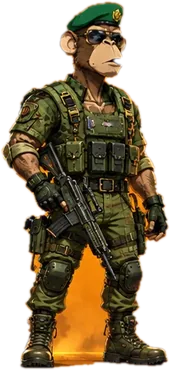
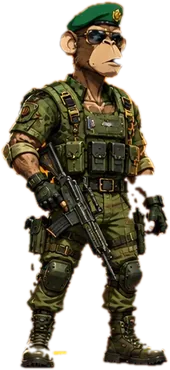
Animated art sprites: swinging legs, body lean and sway; art in the battle tab; cleaner cut-outs
Claude-Session: https://claude.ai/code/session_01AFcB8tnXHrTWHQ39MwJJPb

diff --git a/game.js b/game.js
@@ -1,7 +1,7 @@
 // Monkeys vs Opps: clear rooms of Opps, pick one of three upgrades, beat a boss every 10 rooms. Stand still to shoot, move to dodge.
 // Drag anywhere with your thumb to move. Your monkey starts at the bottom, opps drop in from the top, and it auto-fires.
 (() => {
-  const VERSION = 'v41';
+  const VERSION = 'v42';
   const cv = document.getElementById('c'); let ctx = cv.getContext('2d'); const mainCtx = ctx;
   let W, H, S, AW, AH, dpr, hudY = 44, UIY = 0, UIB = 14;
   let RW = 0, RH = 0, camX = 0, camY = 0;                   // the room can be bigger than the screen; the camera follows you
@@ -293,6 +293,21 @@
   const heroArtC = {};
   function heroArt(id, card) { const k = id + (card ? 'c' : ''); if (!heroArtC[k]) { const im = new Image(); im.src = 'art/hero_' + id + (card ? '_card' : '') + '.webp'; heroArtC[k] = im; } return heroArtC[k]; }
   const imgOk = im => im && im.complete && im.naturalWidth > 0;
+  // supplied artwork, animated: the legs swing in turn, the upper body counter-swings (so the weapon moves), and the whole figure leans the way you push the stick
+  function drawHero(ch, x, fy, w, o) {
+    const art = heroArt(ch.id); if (!imgOk(art)) return false;
+    const nw = art.naturalWidth, nh = art.naturalHeight, h = w * nh / nw, hip = h * 0.5, hs = nh * 0.5, t = o.walk || 0, mv = o.mv || 0, bob = Math.abs(Math.sin(t)) * h * 0.025 * mv + (o.idle ? Math.sin(o.idle * 2.2) * h * 0.006 : 0);
+    const lean = clamp(o.lx || 0, -1, 1) * 0.1 + Math.sin(t) * 0.03 * mv, sy = 1 + clamp(o.ly || 0, -1, 1) * 0.035 * mv;
+    ctx.save(); ctx.translate(x, fy - bob); ctx.rotate(lean); ctx.scale(o.flip < 0 ? -1 : 1, sy);
+    for (const sg of [-1, 1]) {                                                               // legs: each half swings from the hip, lifting as it goes forward
+      const sw = Math.sin(t + (sg > 0 ? Math.PI : 0)) * mv;
+      ctx.save(); ctx.translate(sg * w * 0.25, -h + hip); ctx.translate(0, -Math.max(0, sw) * h * 0.035); ctx.rotate(sw * 0.4);
+      ctx.drawImage(art, sg < 0 ? 0 : nw / 2, hs, nw / 2, nh - hs, -w / 4, 0, w / 2, h - hip); ctx.restore();
+    }
+    ctx.save(); ctx.translate(0, -h + hip); ctx.rotate(-Math.sin(t) * 0.05 * mv + (o.kick || 0)); ctx.drawImage(art, 0, 0, nw, hs + nh * 0.04, -w / 2, -hip, w, hip + h * 0.04); ctx.restore();   // torso, head and weapon
+    ctx.restore();
+    return true;
+  }
   const BOSS_SPRITES = { bandit: 1 };                                    // bosses drawn from the supplied artwork (cut-outs in art/)
   const bossArtC = {};
   function bossArt(id) { if (!BOSS_SPRITES[id]) return null; if (!bossArtC[id]) { const im = new Image(); im.src = 'art/boss_' + id + '.webp'; bossArtC[id] = im; } return bossArtC[id]; }
@@ -2489,9 +2504,9 @@
       ctx.globalAlpha = blink ? 0.35 : 1;
       { const bw = 40, bx = P.x - bw / 2, by = P.y - P.r * (imgOk(heroArt(P.ch.id)) ? 4.2 : 2.2), hp = clamp(P.hp / P.hpMax, 0, 1); ctx.fillStyle = 'rgba(0,0,0,.7)'; ctx.fillRect(bx - 1, by - 1, bw + 2, 7); ctx.fillStyle = hp > 0.35 ? '#5fe070' : '#ff6a5a'; ctx.fillRect(bx, by, bw * hp, 5); }
       const art = heroArt(P.ch.id);
-      if (imgOk(art)) {                                                  // the supplied character artwork, with its own weapon
-        const w = P.r * 2.7, h = w * art.naturalHeight / art.naturalWidth, mv = P.mv || 0, bob = Math.abs(Math.sin(P.walk || 0)) * 2.2 * mv, lean = Math.sin(P.walk || 0) * 0.04 * mv + clamp((P.vx || 0) / Math.max(1, P.speed), -1, 1) * 0.08;
-        ctx.save(); ctx.translate(P.x, P.y + P.r * 2.6 - bob); ctx.rotate(lean); if (Math.cos(P.aim) < -0.15) ctx.scale(-1, 1); ctx.drawImage(art, -w / 2, -h, w, h); ctx.restore();
+      if (imgOk(art)) {                                                  // the supplied character artwork, animated
+        const sp = Math.max(1, P.speed), mvx = (P.vx || 0) / sp, mvy = (P.vy || 0) / sp, moving = (P.mv || 0) > 0.12;
+        drawHero(P.ch, P.x, P.y + P.r * 2.6, P.r * 2.7, { walk: (P.walk || 0), mv: P.mv || 0, lx: mvx, ly: mvy, flip: moving && Math.abs(mvx) > 0.25 ? Math.sign(mvx) : (Math.cos(P.aim) < -0.15 ? -1 : 1), idle: performance.now() / 1000 });
       } else {
       ctx.save(); ctx.translate(P.x, P.y + P.r * 2.6); ctx.rotate(clamp((P.vx || 0) / Math.max(1, P.speed), -1, 1) * 0.1); ctx.translate(0, -P.r * 2.6); ctx.scale(1.3, 1.3);
       drawApe(ctx, 0, 0, P.r, P.ch, P.aim, 0, P.walk || 0, P.mv || 0, (P.sl || 0) > 0 ? ((P.sl / 0.14) * 1.5 - 0.75) * -1 : 0, false, P.face);
@@ -2740,7 +2755,7 @@
     const ch = CHARS[sel], owned = save.owned[ch.id], bot = AH - UIY, cx = AW / 2, cy = Math.max(190, AH * 0.28);
     slate(24, cy - 80, AW - 48, 210, 14);
     { const rg = ctx.createLinearGradient(cx - 90, 0, cx + 90, 0); rg.addColorStop(0, '#2a5a2a'); rg.addColorStop(0.5, '#9dff6a'); rg.addColorStop(1, '#2a5a2a'); ctx.fillStyle = 'rgba(0,0,0,.45)'; ctx.beginPath(); ctx.ellipse(cx, cy + 74, 84, 14, 0, 0, 6.28); ctx.fill(); ctx.strokeStyle = rg; ctx.lineWidth = 3; ctx.beginPath(); ctx.ellipse(cx, cy + 72, 80, 12, 0, 0, 6.28); ctx.stroke(); }
-    if (owned) { ctx.save(); ctx.translate(cx, cy - 22); ctx.scale(1.15, 1.15); drawApe(ctx, 0, 0, 36, ch, -0.5, Math.sin(now / 500) * 3, 0, 0); ctx.restore(); }
+    if (owned) { if (!drawHero(ch, cx, cy + 100, 72, { idle: now / 1000, flip: 1 })) { ctx.save(); ctx.translate(cx, cy - 22); ctx.scale(1.15, 1.15); drawApe(ctx, 0, 0, 36, ch, -0.5, Math.sin(now / 500) * 3, 0, 0); ctx.restore(); } }
     else drawPortrait(ch, cx - 60, cy - 70, 120, now, true);
     goldTxt(ch.short.toUpperCase(), cx, cy + 112, 26, 2); txt(ch.role.toUpperCase() + '  -  ' + WEAP[ch.weapon].name, cx, cy + 136, 11, '#bfe3d8');
     const y1 = cy + 160, sn = save.snap && save.owned[save.snap.ch] ? save.snap : null;

diff --git a/sw.js b/sw.js
@@ -1,5 +1,5 @@
 // Network first so updates arrive; the cache is the offline fallback. Same-origin GET only.
-const CACHE = 'monkeys-vs-opps-v41';
+const CACHE = 'monkeys-vs-opps-v42';
 const FILES = ['./', 'index.html', 'style.css', 'reg.js', 'game.js', 'manifest.webmanifest', 'icons/icon-180.png', 'icons/icon-192.png', 'icons/icon-512.png', 'art/boss_bandit.webp'].concat(['volt','gunner','blaze','frost','toxic','thunder','shadow','tank','plasma','chaos'].flatMap(n => ['art/hero_' + n + '.webp', 'art/hero_' + n + '_card.webp']));
 self.addEventListener('install', e => { e.waitUntil(caches.open(CACHE).then(c => c.addAll(FILES))); self.skipWaiting(); });
 self.addEventListener('activate', e => {
